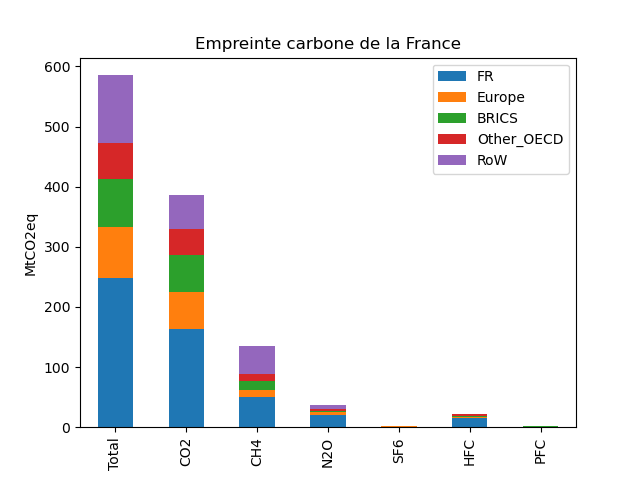
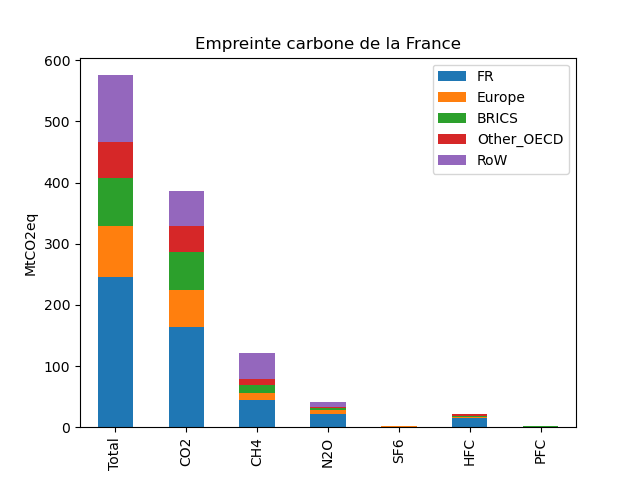
Auto stash before merge of "master" and "origin/master"

diff --git a/main.py b/main.py
@@ -24,7 +24,6 @@ from local_paths import output_dir
 # local library
 from utils import Tools
 
-
 ###########################
 # SETTINGS
 ###########################
@@ -170,6 +169,9 @@ counterfactual.save_all(
 )
 
 
+
+
+
 # concat results for visualisation
 ## ToDo
 ghg_list = ['CO2', 'CH4', 'N2O', 'SF6', 'HFC', 'PFC']
@@ -178,16 +180,14 @@ reg_list = list(reference.get_regions())
 
 ref_dcba = pd.DataFrame(counterfactual.ghg_emissions_desag.D_cba)
 ref_dpba=pd.DataFrame(reference.ghg_emissions_desag.D_pba)
+
 #empreinte carbone française
 empreinte_df = ref_dcba['FR']
-
-empreinte_df2 = ref_dpba['FR'] + reference.ghg_emissions_desag.D_imp.sum(level=1)['FR'] - reference.ghg_emissions_desag.D_exp['FR']
-sumonsectors2 = empreinte_df2.sum(axis=1)
 sumonsectors = empreinte_df.sum(axis=1)
 total_ges_by_origin = sumonsectors.sum(level=0)
-total_ges_by_origin2 = sumonsectors2.sum()
-print(total_ges_by_origin2)
-print(total_ges_by_origin.sum())
+print()
+print("Empreinte carbone française : %s"%total_ges_by_origin.sum())
+print()
 liste_agg_ghg=[]
 for ghg in ghg_list:
 	liste_agg_ghg.append(sumonsectors.iloc[sumonsectors.index.get_level_values(1)==ghg].sum(level=0))
@@ -204,16 +204,22 @@ plt.show()
 
 
 for ghg in ghg_list:
-	df = pd.DataFrame(None, index = reference.get_sectors(), columns = reference.get_regions())
-	for reg in reference.get_regions():
-		df.loc[:,reg]=empreinte_df.loc[(reg,ghg)]
+    df = pd.DataFrame(None, index = reference.get_sectors(), columns = reference.get_regions())
+    for reg in reference.get_regions():
+        df.loc[:,reg]=empreinte_df.loc[(reg,ghg)]
+    plt.grid()
+    plt.xlabel("MtCO2eq")
+    plt.title("Provenance des émissions de "+ghg+" françaises par secteurs")
+    plt.savefig('figures/french_'+ghg+'emissions_provenance_sectors')
+#plt.show()
 	ax=df.plot.barh(stacked=True, figsize=(18,12))
-	plt.grid()
-	plt.xlabel("kgCO2eq")
-	plt.title("Provenance des émissions de "+ghg+" françaises par secteurs")
-	plt.savefig('figures/french_'+ghg+'emissions_provenance_sectors')
-	#plt.show()
 
+ax=empreinte_df.sum(level=0).T.plot.barh(stacked=True)
+plt.grid()
+plt.xlabel("MtCO2eq")
+plt.title("Provenance des émissions totales françaises par secteurs")
+plt.savefig('figures/french_total_emissions_provenance_sectors')
+#plt.show()
 
 ###########################
 # VISUALIZE
